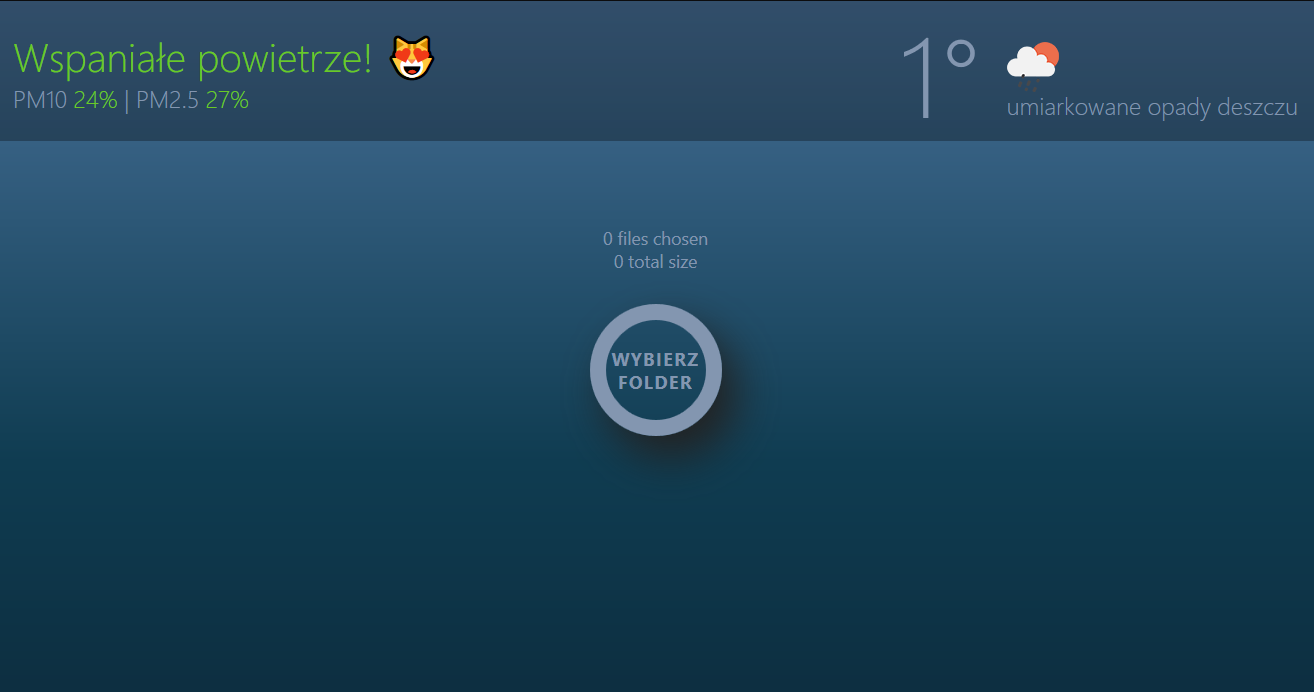
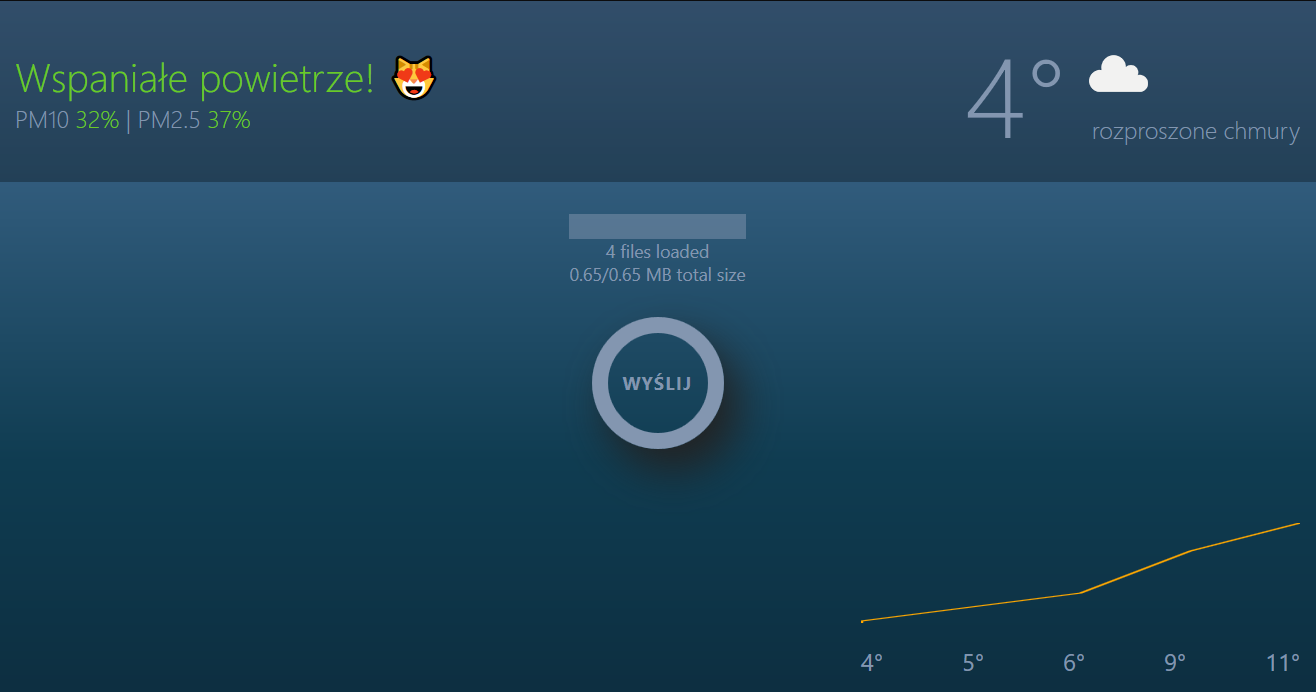
weater forecast graph added

diff --git a/client/src/Upload/Upload.js b/client/src/Upload/Upload.js
@@ -4,6 +4,7 @@ import qs from 'qs'
 import Counter from './Counter'
 import './Upload.scss'
 
+
 function Upload() {
 
    let [uploadDisabled, setUploadDisabled] = useState(true)
@@ -13,54 +14,50 @@ function Upload() {
 
    let syncedSize = sizeUploaded;
 
+   function sendFile(file) {
+      axios.post('/upload', qs.stringify(file), {
+         headers: {
+            'content-type': 'application/x-www-form-urlencoded;charset=utf-8'
+         }
+      }).then(res => {
+         if (res.data.success) {
+            let floatSize = parseFloat(res.data.size)
+            syncedSize += floatSize;
+            setSizeUploaded(syncedSize)
+            // newFileUploaded(true)
+         } else { throw res }
+      }).catch(err => console.log('catched: ', err.response.data))
+   }
+
    function submitUpload(e) {
       e.preventDefault()
-
-      function sendFile(file) {
-         axios.post('/upload', qs.stringify(file), {
-            headers: {
-               'content-type': 'application/x-www-form-urlencoded;charset=utf-8'
-            }
-         }).then(res => {
-            if (res.data.success) {
-               let floatSize = parseFloat(res.data.size)
-               syncedSize += floatSize;
-               setSizeUploaded(syncedSize)
-               // newFileUploaded(true)
-            } else { throw res }
-         }).catch(err => console.log('catched: ', err.response.data))
-      }
-
       Array.prototype.map.call(files, (file) => {
          const reader = new FileReader();
          const dir = file.webkitRelativePath.slice(0, -file.name.length)
          const { name, size } = file
-         reader.onload = function () {
-            sendFile({
-               data: reader.result,
-               dir,
-               name,
-               size
-            })
-         }
+         reader.onload = sendFile({
+            data: reader.result,
+            dir,
+            name,
+            size
+         })
          reader.readAsDataURL(file)
       })
    }
-   ///////////////////  2zl ODDAC   ////////////////////
+
    function handleFilesAdd(e) {
       let files = e.target.files
       let size = 0;
       Array.prototype.forEach.call(files, (file) => size += file.size)
+      setUploadDisabled(false)
       setFilesInfo({
          size,
          amount: files.length
       })
       setFiles(files)
-      setUploadDisabled(false)
    }
 
    let labelFor = uploadDisabled ? 'upload-form__input-browse' : 'upload-form__input-upload'
-
    return (
       <div className="Upload">
          <div className='file-info'>
@@ -105,5 +102,4 @@ function Upload() {
       </div >
    );
 }
-
 export default Upload;

diff --git a/server.js b/server.js
@@ -16,10 +16,8 @@ const weatherKey = process.env.WEATHER_KEY
 
 if (!fs.existsSync(BACKUP_DIR)) fs.mkdirSync(BACKUP_DIR);
 
-//app.use(bodyParser.json({ limit: '50mb', extended: true }))
 app.use(bodyParser.raw({ limit: '50mb', type: 'application/*.*' }))
 app.use(express.urlencoded({ limit: '50mb', extended: true }))
-
 app.use(express.static(path.join(__dirname, 'client/build')));
 
 app.get('/', (req, res) => {
@@ -47,14 +45,25 @@ app.get('/weather', (req, res) => {
       params: { lat, lon: lng, units: 'metric', lang: 'pl', APPID: weatherKey }
    })
       .then(weather => {
-         const { icon, description } = weather.data.list[0].weather[0]
-         const temp = weather.data.list[0].main.temp
-         res.json({ description, temp, icon })
+         // console.log(weather)
+         const temp = weather.data.list[0].main.temp;
+         const { icon, description } = weather.data.list[0].weather[0];
+         const forecast = weather.data.list.filter(
+            ({ dt_txt }) => {
+               let dt15 = dt_txt.split(" ")
+               return dt15[1] === "15:00:00"
+            })
+         res.json({
+            weather: { icon, description, temp },
+            forecast
+         })
+         //   res.json({ description, temp, icon })
       }).catch(err => res.send(err))
 })
 
 app.post('/upload', (req, res) => {
    const { data, dir, name, size } = req.body
+   console.log(req.body.name);
    let file = data.split(';base64,').pop();
    let fullPath = path.join(BACKUP_DIR, dir)
    if (!fs.existsSync(fullPath))

diff --git a/client/src/Weather/Forecast.js b/client/src/Weather/Forecast.js
@@ -1,0 +1,46 @@
+import React from 'react';
+import { useSelector } from 'react-redux'
+import './Forecast.scss';
+
+function Forecast() {
+
+   const forecast = useSelector(state => state.forecast) || null
+   let path;
+   if (forecast) {
+      const temperatures = forecast.map(day => Math.round(day.main.temp))
+      const minTemp = Math.min(...temperatures);
+      const maxTemp = Math.max(...temperatures);
+      const unitY = 100 / (maxTemp - minTemp);
+      const unitX = 100 / (temperatures.length - 1);
+      const startPosY = minTemp * unitY + 100;
+      path = `M 0 ${startPosY} `;
+      temperatures.map((temp, i) => path += `L${unitX * i},${startPosY - temp * unitY} `);
+   }
+
+   return (
+      forecast && path && (
+         <div className="weather-forecast__container" >
+            <svg
+               className="weather-forecast__graph"
+               viewBox="0 0 100 102"
+               preserveAspectRatio="none"
+               height="100"
+            >
+               <path d={path} />
+            </svg>
+            <div
+               className="weather-forecast__temperatures"
+            >{forecast.map(day => (
+               <span
+                  key={day.dt_txt}
+               >{Math.round(day.main.temp)}&#176;
+               </span>
+            ))}
+            </div >
+         </div>
+         || (<div> sdfsdf</div>)
+      )
+   )
+}
+
+export default Forecast

diff --git a/client/src/Weather/index.js b/client/src/Weather/index.js
@@ -1,0 +1,27 @@
+import React, { useEffect, useState } from 'react';
+import { useDispatch, useSelector } from 'react-redux'
+import { getWeather } from './redux/actions'
+import CurrentWeather from './CurrentWeather';
+import Forecast from './Forecast';
+
+function Weather({ location }) {
+   const dispatch = useDispatch();
+   const [time, setTime] = useState()
+   const [errorMessage, setErrorMessage] = useState()
+
+   useEffect(() => {
+      const apiCallInterval = setInterval(() => {
+         setTime(new Date())
+      }, (1000 * 60 * 20))
+      dispatch(getWeather(location.latitude, location.longitude))
+      return () => clearInterval(apiCallInterval)
+   }, [location, time])
+
+   return (
+      <React.Fragment>
+         <CurrentWeather />
+      </React.Fragment>
+   )
+}
+
+export default Weather

diff --git a/client/src/Weather/CurrentWeather.js b/client/src/Weather/CurrentWeather.js
@@ -1,0 +1,20 @@
+import React from 'react';
+import { useSelector } from 'react-redux'
+import './CurrentWeather.scss';
+
+function CurrentWeather() {
+
+   const { temp, description, icon } = useSelector(state => state.weather) || {}
+   return (
+      (temp &&
+         < div className='weather-current__container' >
+            <div className='weather-current__temperature'>{Math.round(temp)}&#176;</div>
+            <div className='weather-current__aura'>
+               <img src={`http://openweathermap.org/img/wn/${icon}@2x.png`} />
+               <div className='weather-current__description'>{description}</div>
+            </div>
+         </div >) || (<div>Loading...</div>)
+   )
+}
+
+export default CurrentWeather

diff --git a/client/src/index.js b/client/src/index.js
@@ -1,10 +1,20 @@
 import React from 'react';
 import ReactDOM from 'react-dom';
-import './index.css';
-import App from './App';
-import * as serviceWorker from './serviceWorker';
+import { Provider } from 'react-redux';
 
-ReactDOM.render(<App />, document.getElementById('root'));
+import store from './_redux/store'
+
+import * as serviceWorker from './serviceWorker';
+import App from './App';
+import './index.css';
+
+
+ReactDOM.render(
+   < Provider store={store} >
+      <App />
+   </Provider >,
+   document.getElementById('root')
+);
 
 // If you want your app to work offline and load faster, you can change
 // unregister() to register() below. Note this comes with some pitfalls.

diff --git a/client/src/App.js b/client/src/App.js
@@ -1,9 +1,10 @@
 import React, { useState, useEffect } from 'react';
 import './App.scss';
 import AirQuality from './AirQuality/airQuality'
-import Weather from './Weather/Weather'
+import Weather from './Weather'
 import Download from './Download/Download';
 import Upload from './Upload/Upload';
+import Forecast from './Weather/Forecast';
 
 function App() {
 
@@ -35,6 +36,7 @@ function App() {
                   location={location}
                />
             </div>)}
+         <Forecast />
          <Upload
             newFileUploaded={newFileUploaded}
          />

diff --git a/client/src/Weather/redux/reducer.js b/client/src/Weather/redux/reducer.js
@@ -1,0 +1,20 @@
+export function weatherReducer(state = {}, { type, payload }) {
+   switch (type) {
+      case 'FETCH_WEATHER_SUCCESS':
+         return {
+            weather: payload.weather,
+            forecast: payload.forecast,
+            error: null,
+            loading: null,
+         }
+      case 'FETCH_WEATHER_FAILURE':
+         return {
+            weather: null,
+            forecast: null,
+            loading: null,
+            error: payload
+         }
+      default:
+         return state
+   }
+}

diff --git a/client/src/Weather/Forecast.scss b/client/src/Weather/Forecast.scss
@@ -1,0 +1,27 @@
+@import "../_common/variables.scss";
+
+.weather-forecast {
+
+   &__container {
+      color: $main_color;
+      position: fixed;
+      bottom: 0;
+      right: 0;
+      padding: $size_medium;
+      width: 33.33%;
+      font-size: $size_large;
+   }
+
+   &__graph {
+      width: 100%;
+      stroke: $second_color;
+      fill: none;
+      stroke-width: 1;
+   }
+
+   &__temperatures {
+      padding-top: $size_medium;
+      display: flex;
+      justify-content: space-between;
+   }
+}

diff --git a/client/src/_redux/store/index.js b/client/src/_redux/store/index.js
@@ -1,0 +1,11 @@
+import { createStore } from 'redux'
+import { weatherReducer } from '../../Weather/redux/reducer.js'
+import { applyMiddleware, compose } from 'redux';
+import thunk from 'redux-thunk'
+
+const composeEnhancers = window.__REDUX_DEVTOOLS_EXTENSION_COMPOSE__ || compose;
+const store = createStore(weatherReducer, composeEnhancers(
+   applyMiddleware(thunk)
+));
+
+export default store;

diff --git a/client/src/Weather/CurrentWeather.scss b/client/src/Weather/CurrentWeather.scss
@@ -1,16 +1,16 @@
 @import '../_common/variables.scss';
 
-.weather{
-   &__container{
+.weather-current {
+   &__container {
       display: flex;
       align-items: center;
-      }
+   }
 
-   &__temperature{
+   &__temperature {
       font-size: 7rem;
    }
 
-   &__description{
+   &__description {
       position: relative;
       bottom: $size-medium;
       padding-left: $size-large;

diff --git a/client/src/Weather/redux/actions.js b/client/src/Weather/redux/actions.js
@@ -1,0 +1,13 @@
+import axios from 'axios';
+
+export const getWeather = (lat, lng) => (dispatch) => {
+   axios.get(`/weather`, { params: { lat, lng } })
+      .then(res => dispatch({
+         type: 'FETCH_WEATHER_SUCCESS',
+         payload: res.data
+      }))
+      .catch(err => dispatch({
+         type: 'FETCH_WEATHER_FAILURE',
+         payload: err.message
+      }))
+}
